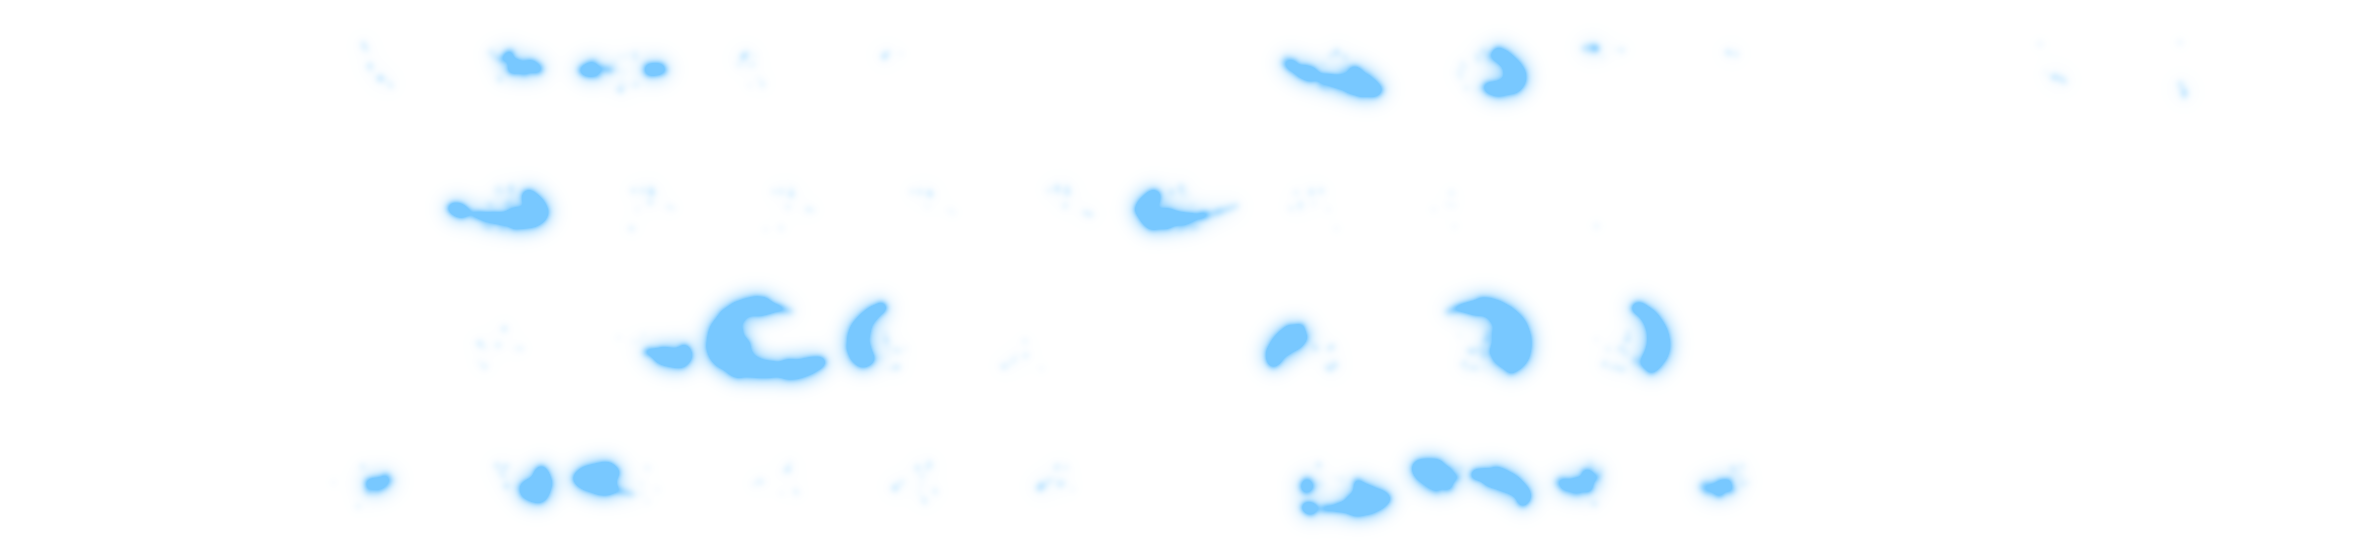
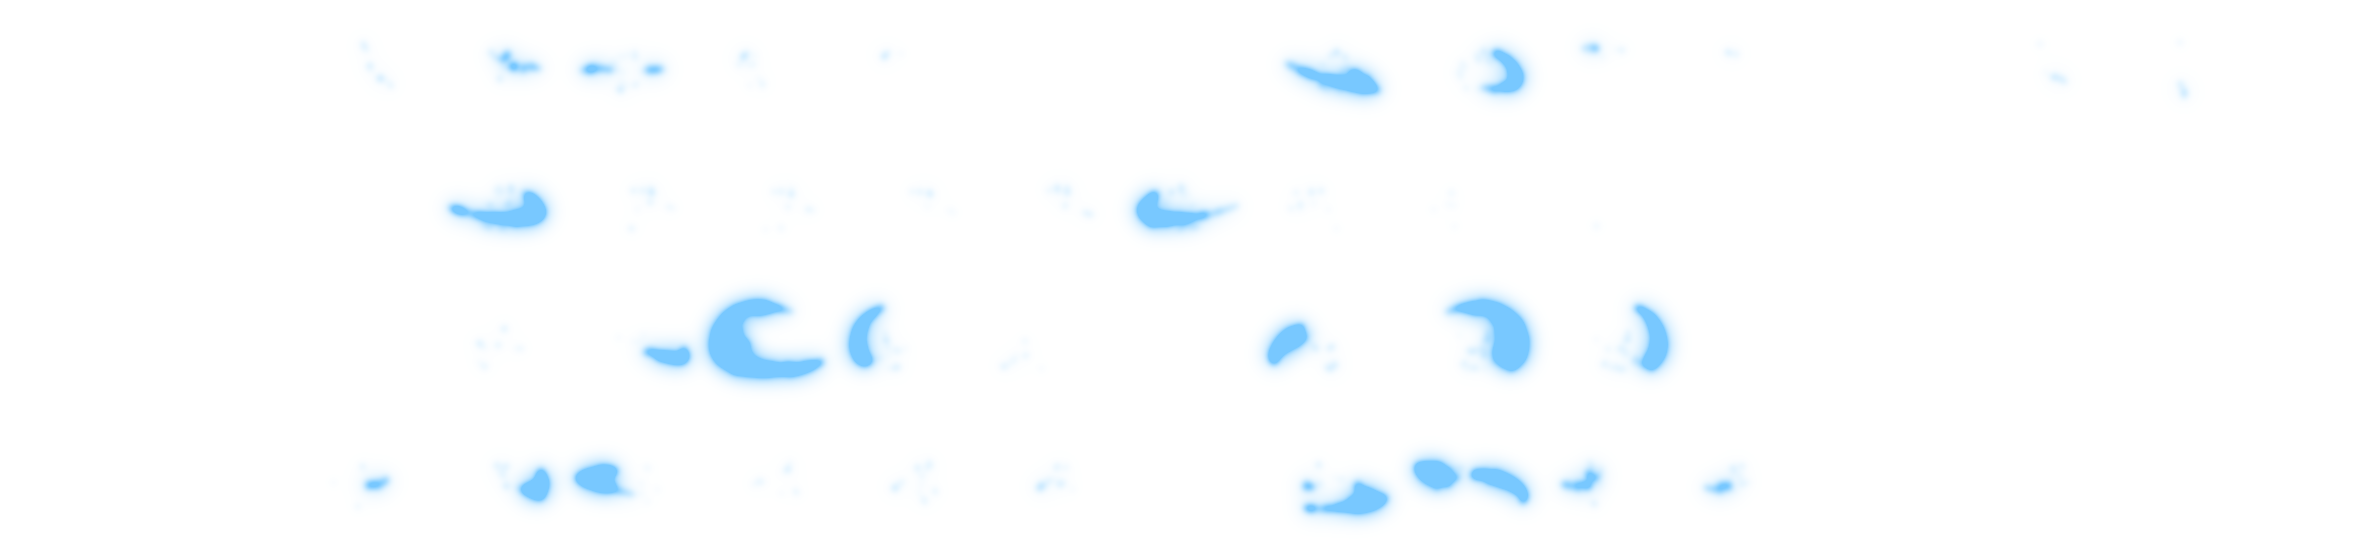
Action prototype: J auto-aims, no white frame round the arcs
From the owner's play clip: J attacks swung toward the parked mouse
cursor, away from the slime. Now a click aims at the mouse and J or the
touch button aims at the nearest slime. The faint halo bands round the
arcs looked like a leftover frame; one thin band in the arc's own colour
replaces them. After a hit she flickers see-through instead of vanishing.

diff --git a/action.html b/action.html
@@ -458,7 +458,7 @@ cv.addEventListener('contextmenu', e => e.preventDefault());
 cv.addEventListener('pointerdown', e => {
   if (e.pointerType === 'touch') { if (e.clientX < innerWidth * .55 && stick.id === null) { stick.id = e.pointerId; stick.ox = stick.x = e.clientX; stick.oy = stick.y = e.clientY; stick.on = true; } return; }
   mouse.x = e.clientX; mouse.y = e.clientY; mouse.used = true;
-  if (e.button === 0) wantAtk(); else if (e.button === 2) wantRoll();
+  if (e.button === 0) wantAtk(true); else if (e.button === 2) wantRoll();
 });
 addEventListener('pointermove', e => { if (e.pointerId === stick.id) { stick.x = e.clientX; stick.y = e.clientY; } else if (e.pointerType === 'mouse') { mouse.x = e.clientX; mouse.y = e.clientY; mouse.used = true; } });
 const endStick = e => { if (e.pointerId === stick.id) { stick.id = null; stick.on = false; } };
@@ -476,13 +476,15 @@ function moveInput() {
 }
 function aimDir() {
   const p = G.p;
-  if (!TOUCH && mouse.used) { const wx = mouse.x * DPR / S + cam.x, wy = mouse.y * DPR / S + cam.y; return dirOf(wx - p.x, wy - (p.y - 50)); }
-  let best = null, bd = 230; for (const m of G.mobs) { const d = Math.hypot(m.x - p.x, m.y - p.y); if (d < bd && m.hp > 0) { bd = d; best = m; } }
+  // a mouse click aims at the mouse; J / the touch button aim at the nearest slime (owner's clip 2026-11-08: the cursor
+  // was left at the top of the screen and every J attack swung that way while the slime came from below)
+  if (!TOUCH && p.bufMouse) { const wx = mouse.x * DPR / S + cam.x, wy = mouse.y * DPR / S + cam.y; return dirOf(wx - p.x, wy - (p.y - 50)); }
+  let best = null, bd = 260; for (const m of G.mobs) { const d = Math.hypot(m.x - p.x, m.y - p.y); if (d < bd && m.hp > 0) { bd = d; best = m; } }
   if (best) return dirOf(best.x - p.x, best.y - p.y);
   const [mx, my] = moveInput(); return (mx || my) ? dirOf(mx, my) : p.dir;
 }
 function noStamina() { const b = document.getElementById('stb'); b.classList.remove('no'); void b.offsetWidth; b.classList.add('no'); }
-function wantAtk() { if (!G || G.over) return; G.p.buf = 'atk'; G.p.bufT = .3; }
+function wantAtk(byMouse) { if (!G || G.over) return; G.p.buf = 'atk'; G.p.bufT = .3; G.p.bufMouse = !!byMouse; }
 function wantRoll() { if (!G || G.over) return; G.p.buf = 'roll'; G.p.bufT = .3; }
 
 // ---------- rules ----------
@@ -654,7 +656,12 @@ function drawMove(name, dir, x, y, t, fps, k) {
   drawCell(ar.img, ar.r, f, x, y, ar.flip); return true;
 }
 function drawPlayer(p) {
-  if (p.inv > 0 && p.state !== 'roll' && p.state !== 'hurt' && p.state !== 'dead' && ((G.t * 14) | 0) % 2) return;   // blink after a hit
+  // after a hit she flickers see-through instead of vanishing (owner's clip: she seemed to disappear)
+  const blink = p.inv > 0 && p.state !== 'roll' && p.state !== 'hurt' && p.state !== 'dead' && ((G.t * 14) | 0) % 2;
+  if (blink) ctx.globalAlpha = .45;
+  drawPlayerBody(p); ctx.globalAlpha = 1;
+}
+function drawPlayerBody(p) {
   if (p.state === 'atk' && p.a) { const ar = p.a.plan.ar, f = Math.min(p.a.i, ar.n - 1); drawCell(ar.img, ar.r, f, p.x, p.y, ar.flip);
     if (ar.glow) { ctx.globalCompositeOperation = 'lighter'; drawCell(ar.glow, ar.r, f, p.x, p.y, ar.flip, .85); ctx.globalCompositeOperation = 'source-over'; }   // arc glow (bloom)
     return; }

diff --git a/tools/art/act_sheet.py b/tools/art/act_sheet.py
@@ -127,10 +127,10 @@ def arcwhite(fr, grow=3):
                 a[arc & (L > lo), :3] = c; a[out_arc & (L > lo), 3] = al   # see-through only beyond the body
             if out_arc.sum() >= 60:
                 # owner "ทำคลื่นฟันให้กว้างกว่านี้": a wider wave = two faint see-through bands round the arc, on empty pixels only
-                b1 = ndimage.binary_dilation(out_arc, iterations=3) & (a[..., 3] == 0)
-                b2 = ndimage.binary_dilation(out_arc, iterations=6) & (a[..., 3] == 0) & ~b1
-                a[b1, :3] = SMEAR[1]; a[b1, 3] = max(60, AIRA[0] - 30)
-                a[b2 & (BAY[:a.shape[0], :a.shape[1]] < .55), :3] = SMEAR[0]; a[b2 & (BAY[:a.shape[0], :a.shape[1]] < .55), 3] = max(40, AIRA[0] - 70)
+                # (owner then: two faint halo bands looked like a leftover white frame round the arc) -> one thin band in
+                # the arc's own edge colour and alpha, so the arc itself is thicker and no separate border shows
+                b1 = ndimage.binary_dilation(out_arc, iterations=2) & (a[..., 3] == 0)
+                a[b1, :3] = SMEAR[0]; a[b1, 3] = AIRA[0]
         out.append(Image.fromarray(a))
     return out
 import numpy as _np0

diff --git a/docs/action-game.md b/docs/action-game.md
@@ -80,6 +80,11 @@ Then (owner): air blade OFF ("ไม่เอาใบมีดลม"), reach b
 of 5 → cell 140, feet 70/118, `k` 0.8 in the json); wider waves ("ทำคลื่นฟันให้กว้างกว่านี้"): two faint see-through bands
 round every outside arc (3 and 6 px, the outer one dithered) and a wider glow.
 
+Owner's play clip 2026-11-08: every J attack swung toward the mouse cursor left at the top while the slime came from below →
+aim: a mouse click aims at the mouse, J / the touch button auto-aim at the nearest slime within 260 (else the walk direction);
+the hit blink is now 45% see-through instead of vanishing. The wave bands looked like a leftover white frame → one 2 px band in
+the arc's own edge colour/alpha.
+
 ## Game: `action.html` (prototype, 2026-11-08)
 One file. Bright meadow painted in code at 1 world px = 1 art px (`makeGround`: diamond tiles, grass tones with Bayer
 dither, dirt path, tufts, flowers, rocks, bushes, a ring of trees), whole-number screen scale `S` (about 560 world px of
